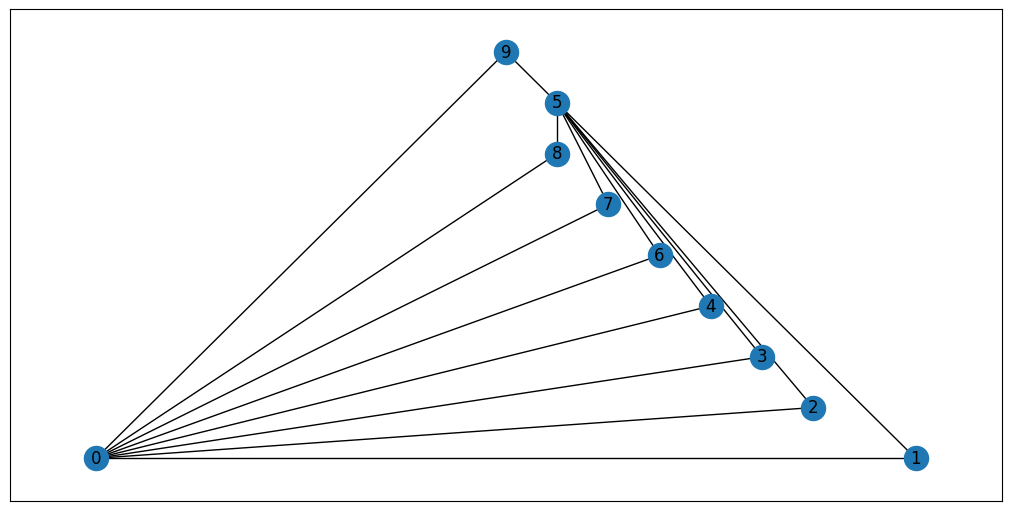
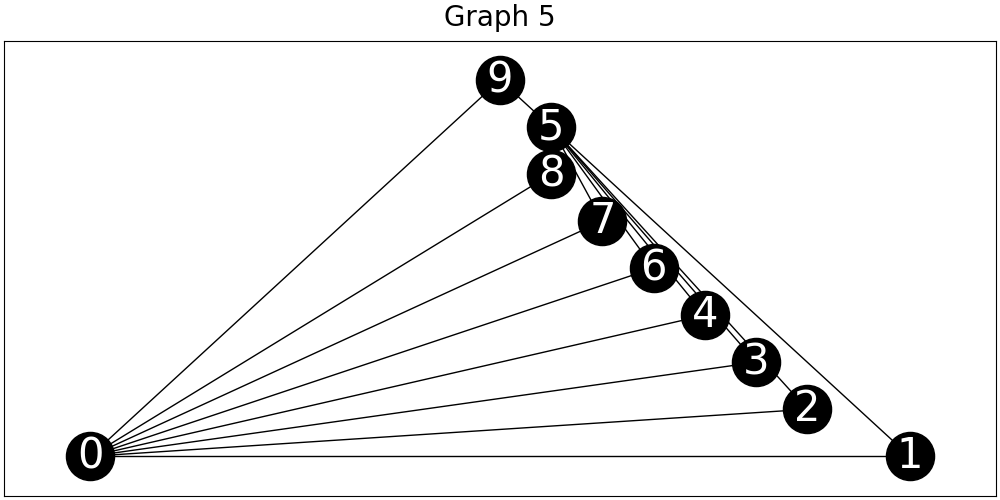
updates

diff --git a/cvf-analysis/plot_graphs.py b/cvf-analysis/plot_graphs.py
@@ -3,18 +3,18 @@ import networkx as nx
 from matplotlib import pyplot as plt
 
 graph_names = [
-    "graph_1",
-    "graph_2",
-    "graph_3",
-    "graph_6",
-    "graph_6b",
-    "graph_7",
-    "graph_8",
-    # "graph_4",
-    # "graph_5",
+    # "graph_1",
+    # "graph_2",
+    # "graph_3",
+    # "graph_6",
+    # "graph_6b",
+    # "graph_7",
+    # "graph_8",
+    "graph_4",
+    "graph_5",
 ]
 
-planar = False
+planar = True
 fontsize = 20
 
 for gname in graph_names:
@@ -22,7 +22,7 @@ for gname in graph_names:
     fig = plt.figure(figsize=(10, 5), constrained_layout=True)
     if planar:
         pos = nx.planar_layout(G)
-        nx.draw_networkx(G, pos=pos, node_color="black", ax=fig.add_subplot(), font_size=25)
+        nx.draw_networkx(G, pos=pos, node_color="black", font_color="white", ax=fig.add_subplot(), font_size=30, node_size=1200)
     else:
         nx.draw_networkx(G, node_color="black", font_color="white", ax=fig.add_subplot(), font_size=30, node_size=1200)
 
